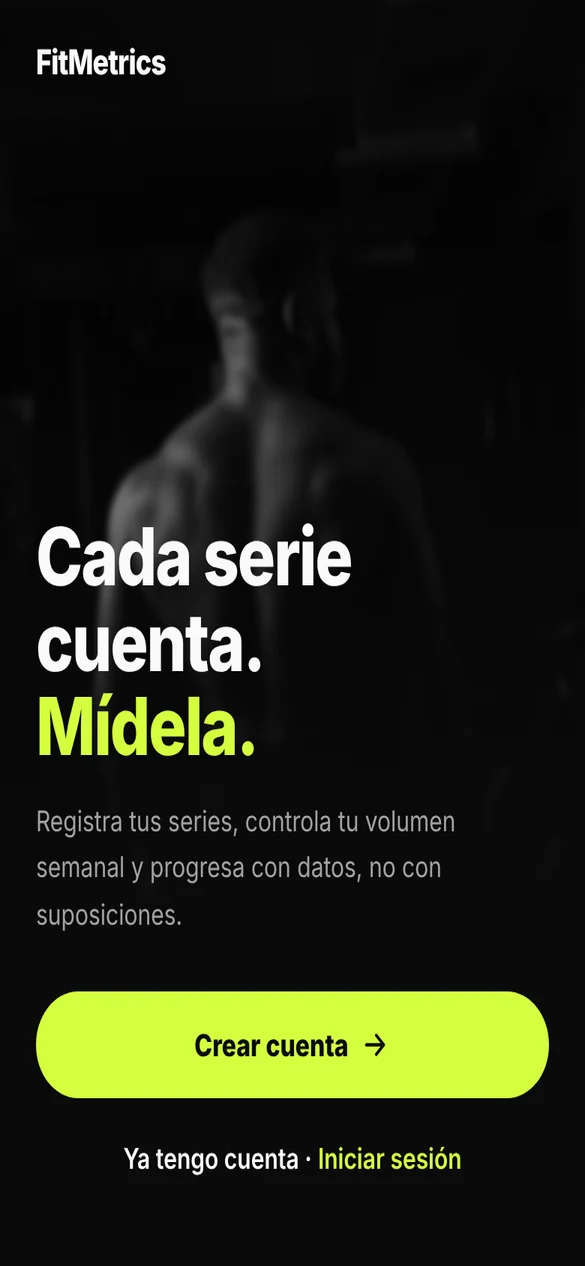
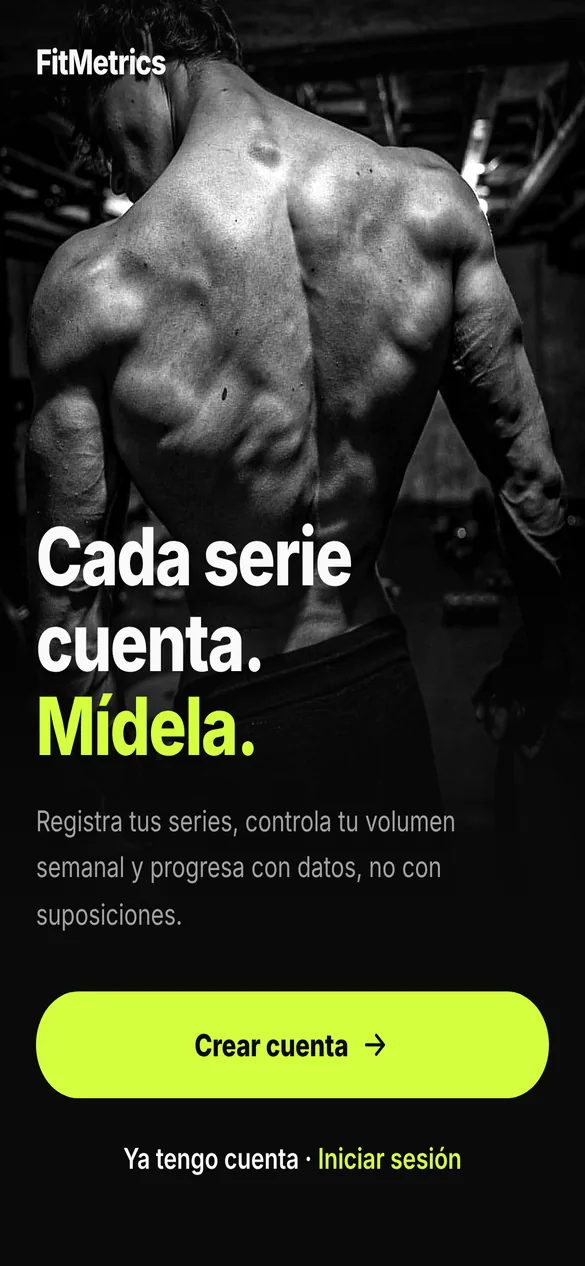
Nueva foto de bienvenida, nítida y en blanco y negro
- Reemplaza bienvenida.png por bienvenida.webp (117 KB)
- Foto completa arriba sin desenfoque; se funde con el fondo hacia abajo
- Actualiza la captura del README

diff --git a/frontend/src/pages/Bienvenida.jsx b/frontend/src/pages/Bienvenida.jsx
@@ -10,13 +10,16 @@ export default function Bienvenida() {
 
   return (
     <div className="tema-oscuro animate-pagina relative mx-auto min-h-dvh max-w-md overflow-hidden">
-      <div aria-hidden="true" className="absolute inset-0">
+      {/* Foto completa arriba, nítida; se funde con el fondo negro hacia abajo */}
+      <div aria-hidden="true" className="absolute inset-x-0 top-0">
         <img
-          src="/bienvenida.png"
+          src="/bienvenida.webp"
           alt=""
-          className="absolute inset-x-0 top-0 h-[78%] w-full scale-105 object-cover object-[center_20%] blur-[2px] brightness-90"
+          width="1005"
+          height="1256"
+          className="block h-auto max-h-[74dvh] w-full object-cover object-top"
         />
-        <div className="absolute inset-0 bg-[linear-gradient(180deg,rgba(10,10,10,0.45)_0%,rgba(10,10,10,0.1)_28%,rgba(10,10,10,0.8)_60%,#0A0A0A_74%)]" />
+        <div className="absolute inset-0 bg-[linear-gradient(180deg,rgba(10,10,10,0.55)_0%,rgba(10,10,10,0)_18%,rgba(10,10,10,0)_55%,rgba(10,10,10,0.75)_82%,#0A0A0A_100%)]" />
       </div>
 
       <div className="absolute left-6 top-[calc(1.25rem+env(safe-area-inset-top))]">
